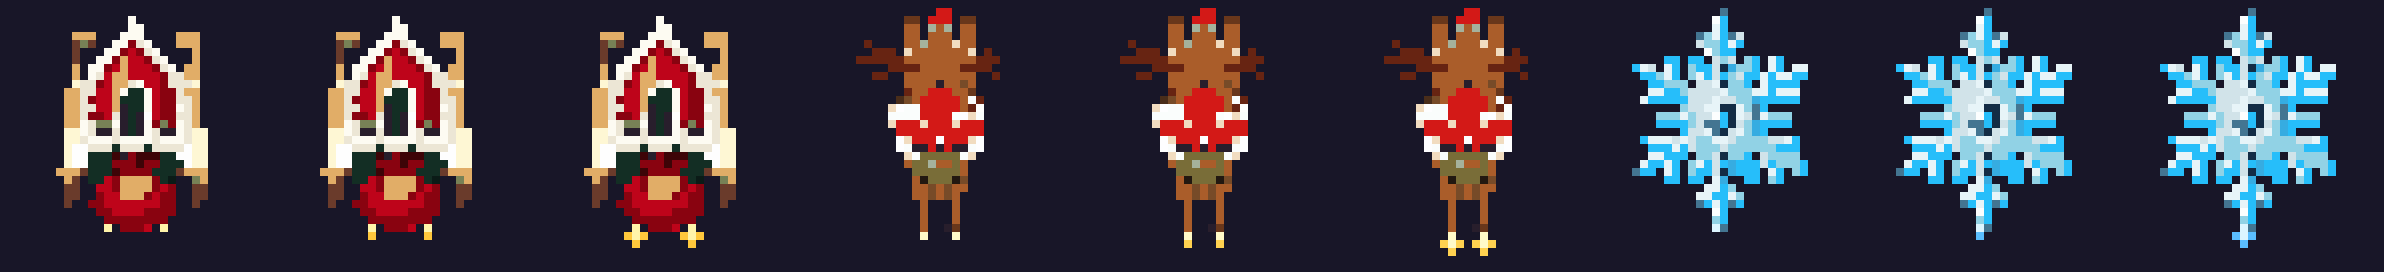
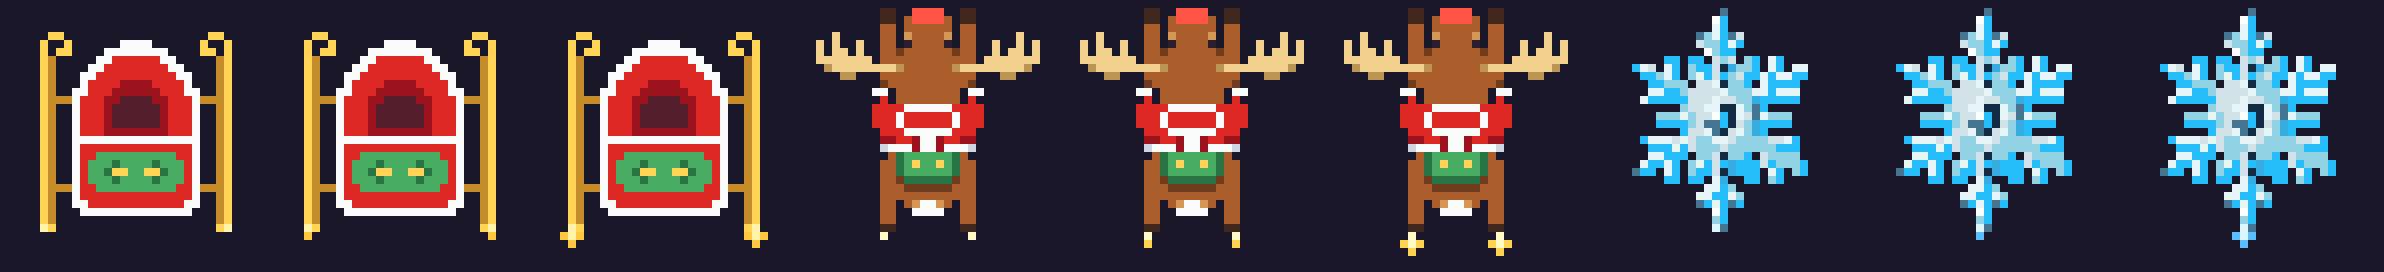
クリスマスの自機: そりとトナカイを手打ちのドットに描き直し
Claude-Session: https://claude.ai/code/session_01SZqiHkPTTSDDSzfRRGjVcm

Changed region(s): [[0.0, 0.0294, 0.6829, 0.9412]]

diff --git a/art/ships/xmas/make_ships.py b/art/ships/xmas/make_ships.py
@@ -17,6 +17,35 @@ SHIPS = [
 # 尾の光: コマごとの (dx, 段, 明るいか)。段 0 が本体のすぐ下
 TRAIL = [[(0, 0, 1)], [(0, 0, 1), (0, 1, 0)], [(0, 0, 1), (0, 1, 1), (0, 2, 0), (-1, 1, 0), (1, 1, 0)]]
 
+# そりとトナカイは、元絵をそのまま縮めると 32 ドットでは形が読めないので、元絵を見ながら手で打った絵にする。
+# 左半分(16 列)だけ書いて、左右に写す。'.' は透明
+PAL = {'b': (170, 93, 42), 'd': (112, 60, 30), 'l': (214, 150, 86), 'a': (240, 208, 140), 'A': (188, 148, 84),
+       'r': (222, 40, 36), 'R': (156, 18, 28), 'w': (250, 252, 252), 'g': (206, 214, 228), 'n': (255, 84, 70),
+       'h': (66, 40, 28), 'e': (40, 30, 44), 's': (72, 172, 98), 'S': (40, 116, 68), 'y': (255, 212, 84),
+       'Y': (196, 140, 40), 'k': (84, 30, 44)}
+HAND = {
+'reindeer_xmas': [
+ "..........hh..nn", "..........hh.bnn", "..........bb.bbb", "....a.....bb.lbb", "..a.a..a..bb.ebb", "..a.aa.a..bbdbbb",
+ "..aaaaaaa.bbbbbb", "...AaaaaaaaaAbbb", ".....AA...bbbbbb", "..........dbbbbb", ".........ww.bbbb", "..........r.bbbb",
+ ".........rrrrwww", ".........rrrwrrr", ".........rrrwrrr", "..........rrrwww", "..........RRrrRw", "..........gwwwRw",
+ "...........bSsss", "..........bbSsys", "..........bbSsss", "..........bbdSSS", "..........bbbddd", "..........bbbbbb",
+ "..........bb.blw", "..........bb..ww", "..........bb....", "..........hh...."],
+'sleigh_xmas': [
+ "................", ".....yy.........", "....y..y......ww", "....y.yy....wwww", "....yY.....wwrrr", "....yY....wwrrrr",
+ "....yY...wwrrrrr", "....yY...wrrrrRR", "....yY..wwrrrRRR", "....yYYYwrrrRRkk", "....yY..wrrrRkkk", "....yY..wrrrRkkk",
+ "....yY..wrrrRkkk", "....yY..wrrrRRRR", "....yY..wwwwwwww", "....yY..wrrrrrrr", "....yY..wrrsssss", "....yY..wrsssSss",
+ "....yY..wrssSyys", "....yY..wrsssSss", "....yYYYwrrsssss", "....yY..wrrrrrrr", "....yY..wwrrrrrr", "....yY...wwwwwww",
+ "....yY..........", ".....y.........."],
+}
+
+def hand_body(rows):
+    im = Image.new('RGBA', (32, len(rows)), (0, 0, 0, 0)); px = im.load()
+    for y, row in enumerate(rows):
+        assert len(row) == 16, (y, row)
+        for x, c in enumerate(row):
+            if c != '.': px[x, y] = PAL[c] + (255,); px[31 - x, y] = PAL[c] + (255,)
+    return im
+
 def body(src, x0, x1, stretch):
     # 縦に長い絵(トナカイ)は、横に少し広げてからドットにする: 32 ドットでは細すぎて角も顔も消えるので
     mm.SIZE = BODY; mm.COLORS = 16
@@ -28,8 +57,8 @@ def main():
     rows = []
     for name, fn, (x0, x1), (c_dark, c_light), stretch in SHIPS:
         src = Image.open(os.path.join(HERE, 'source', fn)).convert('RGB')
-        b = body(src, x0, x1, stretch)
-        bb = b.getbbox(); b = b.crop(bb)
+        b = hand_body(HAND[name]) if name in HAND else body(src, x0, x1, stretch)
+        bb = b.getbbox(); b = b.crop((0, bb[1], 32, bb[3])) if name in HAND else b.crop(bb)
         os.makedirs(os.path.join(HERE, name), exist_ok=True); frames = []
         for f in range(3):
             im = Image.new('RGBA', (32, 32), (0, 0, 0, 0))
